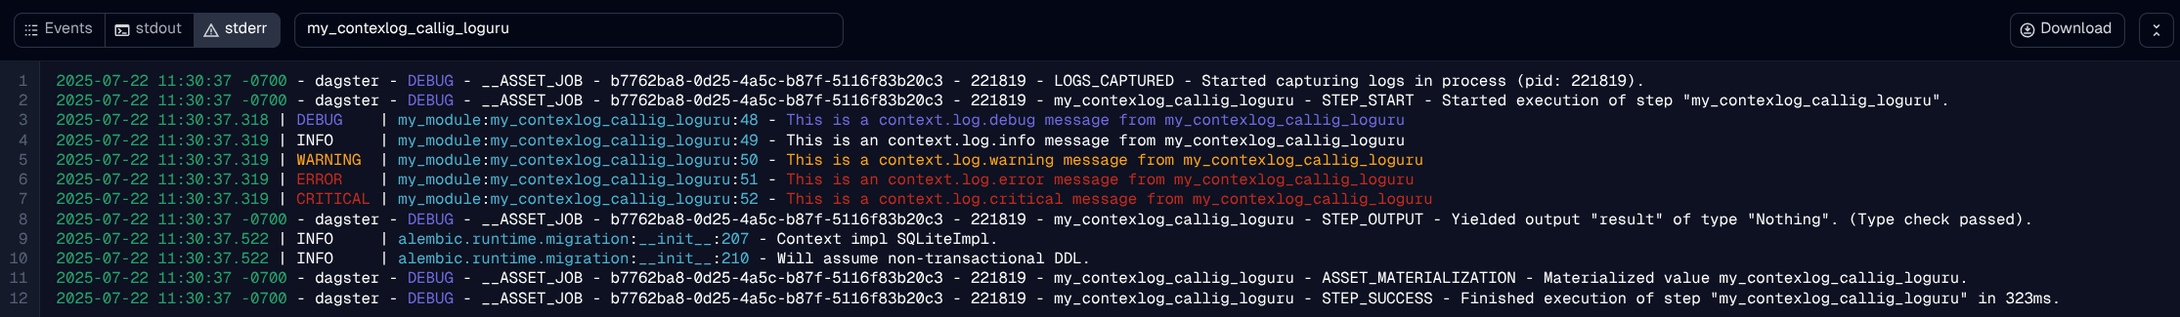
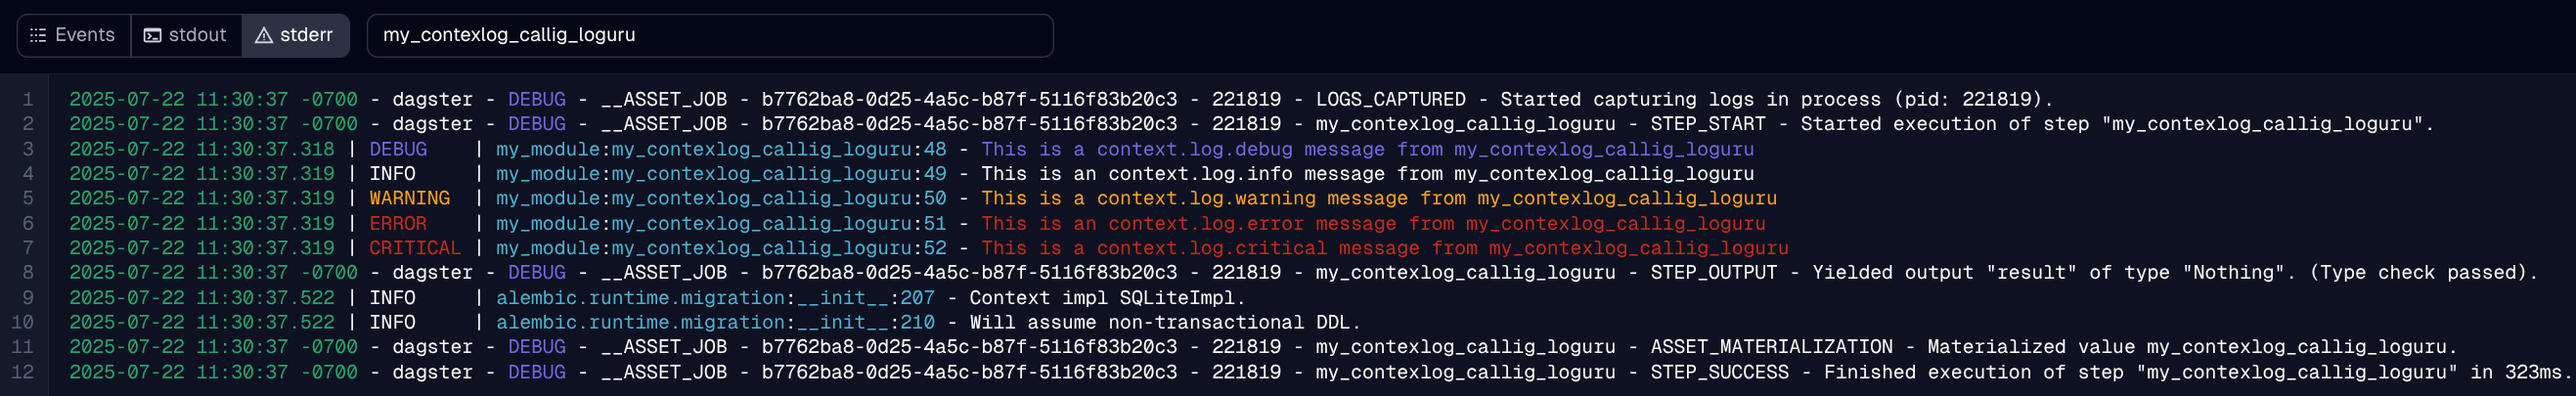
updated loguru_bridge

diff --git a/loguru_dagster/cli.py b/loguru_dagster/cli.py
@@ -1,5 +1,4 @@
 import argparse
-import sys
 from . import __version__
 
 def main():
@@ -7,45 +6,69 @@ def main():
         description="loguru-dagster: Bridge between Loguru and Dagster for enhanced logging capabilities",
         formatter_class=argparse.RawDescriptionHelpFormatter,
     )
-    
+
     parser.add_argument(
         "-v", "--version",
         action="version",
         version=f"loguru-dagster {__version__}"
     )
-    
+
     parser.add_argument(
         "--example",
         action="store_true",
         help="Print an example usage of loguru-dagster"
     )
-    
+
     args = parser.parse_args()
-    
+
     if args.example:
         print_example()
     else:
         parser.print_help()
 
 def print_example():
-    example = """
-Example usage of loguru-dagster:
-
+    example = '''
+# Example usage of loguru-dagster
+#################################
+1. Loguru Direct Logging
+You can use Loguru directly inside a Dagster asset:
+import dagster as dg
 from loguru import logger
-from loguru_dagster import dagster_context_sink, with_loguru_logger
+
+@dg.asset
+def test_loguru_html_log():
+    """Verify that all levels appear correctly in Dagster UI"""
+    logger.debug("==Debug== Loguru is working in Dagster!")
+    logger.info("==Info== Loguru is working in Dagster!")
+    logger.warning("==Warning== Loguru is working in Dagster!")
+    logger.error("==!!Error!!== Loguru is working in Dagster!")
+    return {"status": "done"}
+
+defs = dg.Definitions(
+    assets=[test_loguru_html_log]
+)
+
+#################################
+2.Bridge Loguru to context.log with Decorator
+To convert context.log calls into Loguru logs, use the decorator @with_loguru_logger from loguru_dagster:
+
+import dagster as dg
+from loguru_bridge import with_loguru_logger
 
 @dg.asset
 @with_loguru_logger
-def my_asset(context: dg.AssetExecutionContext):
-    logger.info("Hello loguru-dagster!")
+def my_contexlog_callig_loguru(context: dg.AssetExecutionContext) -> None:
+    context.log.debug("This is a context.log.debug message from my_contexlog_callig_loguru")
+    context.log.info("This is an context.log.info message from my_contexlog_callig_loguru")
+    context.log.warning("This is a context.log.warning message from my_contexlog_callig_loguru")
+    context.log.error("This is an context.log.error message from my_contexlog_callig_loguru")
+    context.log.critical("This is a context.log.critical message from my_contexlog_callig_loguru")
 
 defs = dg.Definitions(
-    assets=[my_asset]
+    assets=[my_contexlog_callig_loguru]
 )
-
-For more examples and documentation, visit:
-https://github.com/albertfast/loguru-dagster
-"""
+#########################################
+'''
     print(example)
 
 if __name__ == "__main__":

diff --git a/README.md b/README.md
@@ -39,6 +39,7 @@ defs = dg.Definitions(
     assets=[test_loguru_html_log]
 )
 ```
+
 ![Loguru Direct Logging](./images/test_loguru_html_log.png)
 
 2.Bridge Loguru to context.log with Decorator
